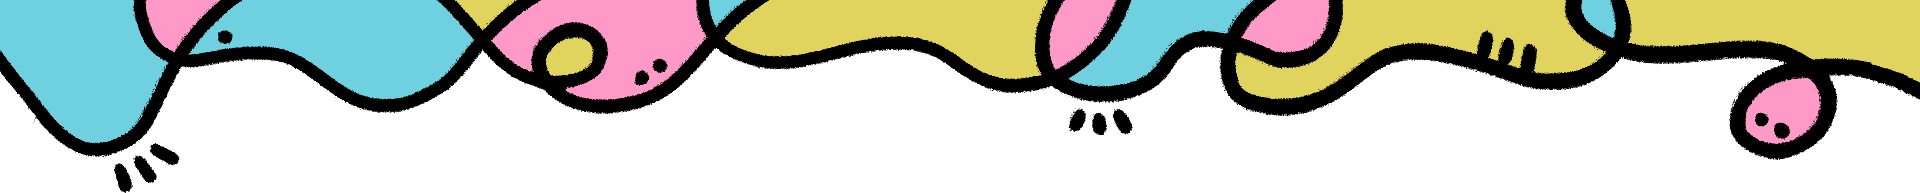
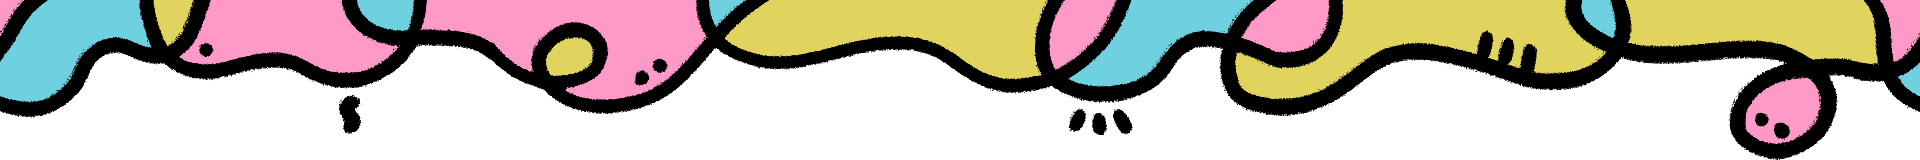
BUILDING: Games Carousel

Changed region(s): [[0.0, 0.0, 1.0, 1.0], [0.1562, 0.5938, 0.1875, 0.8438], [0.3438, 0.0312, 0.4062, 0.1875]]

diff --git a/src/app/page.js b/src/app/page.js
@@ -1,10 +1,155 @@
+'use client';
+
 import React from 'react';
+import Link from 'next/link';
+import styled from 'styled-components';
+
+import colors from '@/styles/colors.styles';
+import { StyledCol, StyledRowAlignCenter } from '@/styles/common.styles';
+import TV from '@/components/TV.component';
+import GamesCarousel from '@/views/GamesCarousel.view';
 
 const Page = () => {
 	return (
-		<div>
-			<h1>Hello, Next.js!</h1>
-		</div>
+		<StyledCol
+			style={{
+				paddingTop: '170px',
+				alignItems: 'center',
+			}}>
+			<span
+				style={{
+					fontFamily: 'Baloo',
+					fontSize: '140px',
+					color: colors.blueGreen.light,
+					lineHeight: '1',
+					marginBottom: '20px',
+					fontWeight: '400',
+				}}>
+				Ramis Lao
+			</span>
+			<span
+				style={{
+					fontSize: '20px',
+					color: colors.pink.light,
+					fontWeight: 'bold',
+				}}>
+				Game Designer, Programmer, Illustrator
+			</span>
+			<img
+				src='/images/separator_top.png'
+				style={{
+					marginTop: '30px',
+					width: '630px',
+				}}
+			/>
+			<StyledRowAlignCenter
+				style={{
+					marginTop: '30px',
+					gap: '80px',
+				}}>
+				<MenuLink
+					href='/'
+					imageUrl={'url(/images/ornament_games.png)'}
+					padding={'0px 0px 0px 12px'}
+					width={'102px'}
+					height={'66px'}
+					margin={'0px 20px 0px 0px'}>
+					Games
+				</MenuLink>
+				<MenuLink
+					href='/'
+					imageUrl={'url(/images/ornament_tech.png)'}
+					width={'83px'}
+					height={'55px'}
+					padding={'0px 10px 0px 0px'}>
+					Tech
+				</MenuLink>
+				<MenuLink
+					href='/'
+					imageUrl={'url(/images/ornament_illustrations.png)'}
+					width={'175px'}
+					height={'65px'}
+					padding={'0px 0px 0px 0px'}>
+					Illustrations
+				</MenuLink>
+				<MenuLink
+					href='/'
+					imageUrl={'url(/images/ornament_music.png)'}
+					width={'115px'}
+					height={'50px'}
+					padding={'0px 18px 0px 0px'}
+					margin={'0px 0px 0px 20px'}>
+					Music
+				</MenuLink>
+				<MenuLink
+					href='/'
+					imageUrl={'url(/images/ornament_about.png)'}
+					width={'103px'}
+					height={'56px'}
+					padding={'0px 4px 0px 0px'}>
+					About
+				</MenuLink>
+			</StyledRowAlignCenter>
+			<img
+				src='/images/separator_bottom.png'
+				style={{
+					marginTop: '30px',
+					width: '630px',
+				}}
+			/>
+			<span
+				style={{
+					fontSize: '50px',
+					color: colors.yellow.light,
+					fontWeight: 'bold',
+					marginTop: '100px',
+				}}>
+				Games
+			</span>
+			<GamesCarousel />
+			<div
+				style={{
+					height: '200px',
+				}}></div>
+		</StyledCol>
+	);
+};
+
+const LinkBackground = styled(StyledCol)`
+	align-items: center;
+	justify-content: center;
+	width: ${(props) => props.width};
+	height: ${(props) => props.height};
+	background-image: none;
+
+	&:hover {
+		background-image: ${(props) => props.imageurl};
+	}
+`;
+
+const MenuLink = ({ href, children, imageUrl, padding, width, height, margin }) => {
+	return (
+		<Link
+			href={href}
+			style={{
+				textDecoration: 'none',
+				color: colors.blueGreen.medium,
+				fontSize: '30px',
+				fontWeight: '900',
+				margin,
+			}}>
+			<LinkBackground
+				imageurl={imageUrl}
+				width={width}
+				height={height}>
+				<span
+					style={{
+						padding,
+					}}>
+					{children}
+				</span>
+			</LinkBackground>
+		</Link>
 	);
 };
 

diff --git a/src/app/layout.js b/src/app/layout.js
@@ -14,17 +14,15 @@ const MainContainer = styled.div`
 const Frame = styled.div`
 	position: absolute;
 	overflow: hidden; // Clip the image if it goes outside the frame dimensions
-	background-repeat: no-repeat;
-	// Add other background properties as needed
+	z-index: 10;
 `;
 
 const TopFrame = styled(Frame)`
 	top: 0;
 	left: 0;
 	right: 0;
-	height: 193px; // Adjust as needed
+	height: 160px; // Adjust as needed
 	background-image: url('/images/bg_top.png');
-	// Other background properties
 `;
 
 const LeftFrame = styled(Frame)`
@@ -33,7 +31,6 @@ const LeftFrame = styled(Frame)`
 	bottom: 0;
 	width: 109px; // Adjust as needed
 	background-image: url('/images/bg_left.png');
-	// Other background properties
 `;
 
 const RightFrame = styled(Frame)`
@@ -42,11 +39,11 @@ const RightFrame = styled(Frame)`
 	bottom: 0;
 	width: 159px; // Adjust as needed
 	background-image: url('/images/bg_right.png');
-	// Other background properties
 `;
 
 const Content = styled.div`
-	overflow-y: scroll; // Enables scrolling for content
+	overflow-y: auto; // Enables scrolling for content
+	height: 100%;
 `;
 
 export default function RootLayout({ children }) {
@@ -67,7 +64,20 @@ export default function RootLayout({ children }) {
 					href='/favicon.ico'
 				/>
 				<link
-					href='https://fonts.googleapis.com/css2?family=Roboto:wght@300&display=swap'
+					rel='preconnect'
+					href='https://fonts.googleapis.com'
+				/>
+				<link
+					rel='preconnect'
+					href='https://fonts.gstatic.com'
+					crossorigin
+				/>
+				<link
+					href='https://fonts.googleapis.com/css2?family=Roboto:ital,wght@0,100;0,300;0,400;0,500;0,700;0,900;1,300;1,400;1,500;1,700;1,900&display=swap'
+					rel='stylesheet'
+				/>
+				<link
+					href='https://fonts.googleapis.com/css2?family=Baloo:wght@400;800&display=swap'
 					rel='stylesheet'
 				/>
 			</head>

diff --git a/src/views/GamesCarousel.view.js b/src/views/GamesCarousel.view.js
@@ -1,0 +1,66 @@
+import Carousel from '@/components/Carousel.component';
+import TV from '@/components/TV.component';
+
+import { StyledRowAlignCenter, StyledCol } from '@/styles/common.styles';
+import colors from '@/styles/colors.styles';
+
+export default function GamesCarousel() {
+	return (
+		<Carousel>
+			<ItemGame
+				url={'https://www.youtube.com/embed/ZP8HqDud7rk?si=bwvnNUJzxHwCTljx'}
+				title={'Luna'}
+				description={
+					"Luna is a hack n' slash, 3D, isometric game where you play as Lune, a young Teushen monk who trains all day and sweats all night at the sweat shops."
+				}
+			/>
+			<ItemGame
+				url={'https://www.youtube.com/embed/DjSxdlxn-m8?si=TRk-ahipAw1Z168A'}
+				title={'Other Luna'}
+				description={
+					"Luna is a hack n' slash, 3D, isometric game where you play as Lune, a young Teushen monk who trains all day and sweats all night at the sweat shops."
+				}
+			/>
+		</Carousel>
+	);
+}
+
+const ItemGame = ({ url, title, description }) => {
+	const urlAutoplayMute = url + '&autoplay=1&mute=1';
+
+	return (
+		<StyledRowAlignCenter
+			style={{
+				gap: '20px',
+			}}>
+			<TV url={urlAutoplayMute} />
+			<StyledCol>
+				<span
+					style={{
+						fontFamily: 'Baloo',
+						fontSize: '40px',
+						lineHeight: '1',
+						fontWeight: '400',
+						marginBottom: '30px',
+					}}>
+					{title}
+				</span>
+				<span
+					style={{
+						fontSize: '25px',
+						maxWidth: '300px',
+					}}>
+					{description}
+				</span>
+				<span
+					style={{
+						fontSize: '25px',
+						color: colors.pink.lightPure,
+						marginTop: '50px',
+					}}>
+					Read more
+				</span>
+			</StyledCol>
+		</StyledRowAlignCenter>
+	);
+};

diff --git a/src/components/Carousel.component.js b/src/components/Carousel.component.js
@@ -1,0 +1,45 @@
+import { useState } from 'react';
+import styled from 'styled-components';
+
+import { StyledRowAlignCenter, StyledButtonNoStyle } from '@/styles/common.styles';
+
+const StyledArrowButtons = styled(StyledButtonNoStyle)`
+	transition: all 0.2s ease-in-out;
+
+	&:hover {
+		transform: scale(1.1);
+	}
+`;
+
+export default function Carousel({ children }) {
+	const [activeIndex, setActiveIndex] = useState(0);
+
+	const handleNext = () => {
+		setActiveIndex(activeIndex + 1 == children.length ? 0 : activeIndex + 1);
+	};
+
+	const handlePrev = () => {
+		setActiveIndex(activeIndex - 1 < 0 ? children.length - 1 : activeIndex - 1);
+	};
+
+	return (
+		<StyledRowAlignCenter
+			style={{
+				gap: '30px',
+			}}>
+			<StyledArrowButtons onClick={handlePrev}>
+				<img
+					src='/images/arrow_left.png'
+					alt='Arrow Left'
+				/>
+			</StyledArrowButtons>
+			{children[activeIndex]}
+			<StyledArrowButtons onClick={handleNext}>
+				<img
+					src='/images/arrow_right.png'
+					alt='Arrow Right'
+				/>
+			</StyledArrowButtons>
+		</StyledRowAlignCenter>
+	);
+}

diff --git a/src/components/TV.component.js b/src/components/TV.component.js
@@ -1,0 +1,41 @@
+import styled from 'styled-components';
+
+const VideoContainer = styled.div`
+	position: relative;
+	width: 846px; // Set the width to your preference or dynamically
+	height: 542px; // Set the height to match the aspect ratio of the video
+	display: flex;
+	justify-content: center;
+	align-items: center;
+`;
+
+const TransparentGif = styled.img`
+	position: absolute;
+	top: 0;
+	left: 0;
+	width: 100%; // Match the container's size
+	height: 100%; // Match the container's size
+	pointer-events: none; // Make sure the gif doesn't block clicks
+`;
+
+const YouTubeVideo = styled.iframe`
+	width: 652.8px;
+	height: 367.2px;
+`;
+
+export default function TV({ url }) {
+	return (
+		<VideoContainer>
+			<YouTubeVideo
+				src={url}
+				frameBorder='0'
+				allow='autoplay; encrypted-media'
+				allowFullScreen
+			/>
+			<TransparentGif
+				src='/gifs/tv.gif'
+				alt='Transparent Gif'
+			/>
+		</VideoContainer>
+	);
+}

diff --git a/src/styles/common.styles.js b/src/styles/common.styles.js
@@ -14,7 +14,7 @@ export const StyledRow = styled.div.attrs((props) => ({
 	flex-direction: row;
 `;
 
-export const StyledRowAlignCenter = styled(FlexRow)`
+export const StyledRowAlignCenter = styled(StyledRow)`
 	align-items: center;
 `;
 
